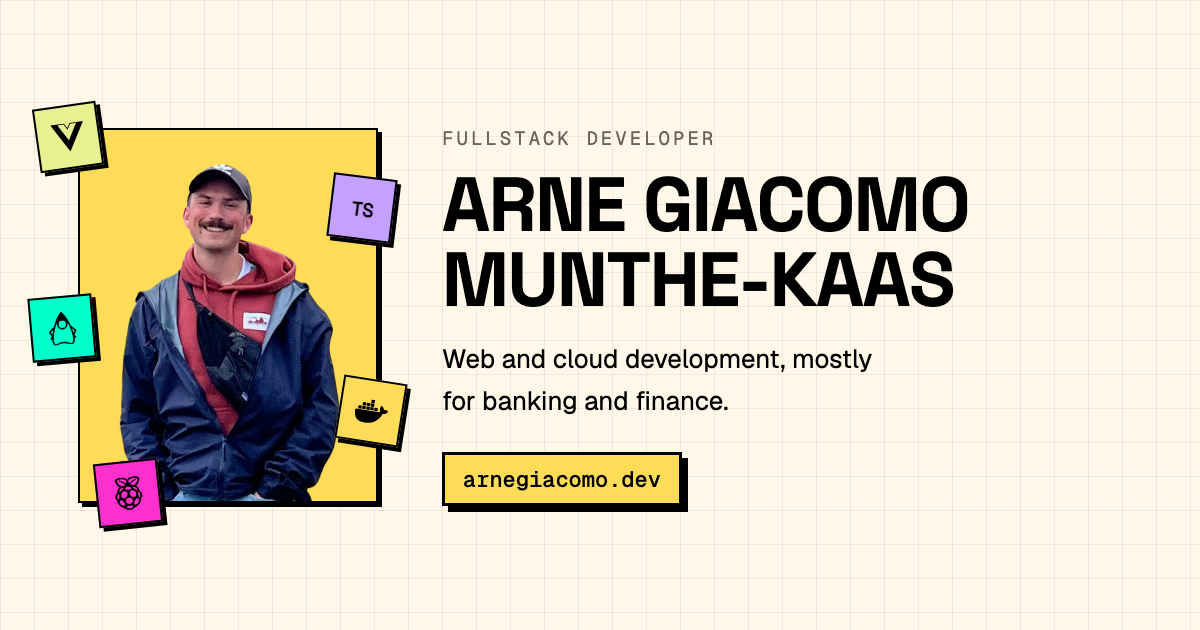
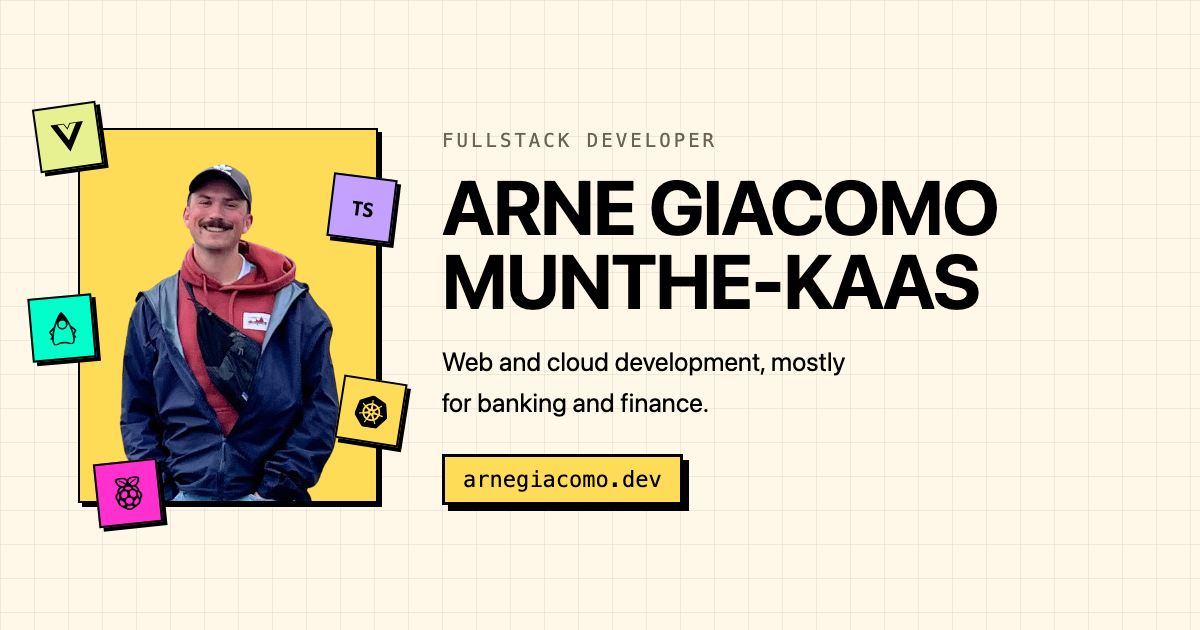
feat: swap Docker chip for Kubernetes
Docker says little on its own and is implied by Kubernetes, which is the
stronger signal. Regenerates both Open Graph cards, since the chips are
baked into the image.

diff --git a/index.html b/index.html
@@ -54,7 +54,7 @@
 <svg class="sprite" aria-hidden="true"><defs>
   <symbol id="i-vue" viewBox="0 0 24 24"><path d="M24,1.61H14.06L12,5.16,9.94,1.61H0L12,22.39ZM12,14.08,5.16,2.23H9.59L12,6.41l2.41-4.18h4.43Z"/></symbol>
   <symbol id="i-ts" viewBox="0 0 24 24"><text x="12" y="17.6" text-anchor="middle" font-family="Geist Mono, ui-monospace, monospace" font-size="14" font-weight="700" letter-spacing="-0.5">TS</text></symbol>
-  <symbol id="i-docker" viewBox="0 0 24 24"><path d="M13.983 11.078h2.119a.186.186 0 00.186-.185V9.006a.186.186 0 00-.186-.186h-2.119a.185.185 0 00-.185.185v1.888c0 .102.083.185.185.185m-2.954-5.43h2.118a.186.186 0 00.186-.186V3.574a.186.186 0 00-.186-.185h-2.118a.185.185 0 00-.185.185v1.888c0 .102.082.185.185.185m0 2.716h2.118a.187.187 0 00.186-.186V6.29a.186.186 0 00-.186-.185h-2.118a.185.185 0 00-.185.185v1.887c0 .102.082.185.185.186m-2.93 0h2.12a.186.186 0 00.184-.186V6.29a.185.185 0 00-.185-.185H8.1a.185.185 0 00-.185.185v1.887c0 .102.083.185.185.186m-2.964 0h2.119a.186.186 0 00.185-.186V6.29a.185.185 0 00-.185-.185H5.136a.186.186 0 00-.186.185v1.887c0 .102.084.185.186.186m5.893 2.715h2.118a.186.186 0 00.186-.185V9.006a.186.186 0 00-.186-.186h-2.118a.185.185 0 00-.185.185v1.888c0 .102.082.185.185.185m-2.93 0h2.12a.185.185 0 00.184-.185V9.006a.185.185 0 00-.184-.186h-2.12a.185.185 0 00-.184.185v1.888c0 .102.083.185.185.185m-2.964 0h2.119a.185.185 0 00.185-.185V9.006a.185.185 0 00-.184-.186h-2.12a.186.186 0 00-.186.186v1.887c0 .102.084.185.186.185m-2.92 0h2.12a.185.185 0 00.184-.185V9.006a.185.185 0 00-.184-.186h-2.12a.185.185 0 00-.184.185v1.888c0 .102.082.185.185.185M23.763 9.89c-.065-.051-.672-.51-1.954-.51-.338.001-.676.03-1.01.087-.248-1.7-1.653-2.53-1.716-2.566l-.344-.199-.226.327c-.284.438-.49.922-.612 1.43-.23.97-.09 1.882.403 2.661-.595.332-1.55.413-1.744.42H.751a.751.751 0 00-.75.748 11.376 11.376 0 00.692 4.062c.545 1.428 1.355 2.48 2.41 3.124 1.18.723 3.1 1.137 5.275 1.137.983.003 1.963-.086 2.93-.266a12.248 12.248 0 003.823-1.389c.98-.567 1.86-1.288 2.61-2.136 1.252-1.418 1.998-2.997 2.553-4.4h.221c1.372 0 2.215-.549 2.68-1.009.309-.293.55-.65.707-1.046l.098-.288Z"/></symbol>
+  <symbol id="i-k8s" viewBox="0 0 24 24"><path d="M10.204 14.35l.007.01-.999 2.413a5.171 5.171 0 0 1-2.075-2.597l2.578-.437.004.005a.44.44 0 0 1 .484.606zm-.833-2.129a.44.44 0 0 0 .173-.756l.002-.011L7.585 9.7a5.143 5.143 0 0 0-.73 3.255l2.514-.725.002-.009zm1.145-1.98a.44.44 0 0 0 .699-.337l.01-.005.15-2.62a5.144 5.144 0 0 0-3.01 1.442l2.147 1.523.004-.002zm.76 2.75l.723.349.722-.347.18-.78-.5-.623h-.804l-.5.623.179.779zm1.5-3.095a.44.44 0 0 0 .7.336l.008.003 2.134-1.513a5.188 5.188 0 0 0-2.992-1.442l.148 2.615.002.001zm10.876 5.97l-5.773 7.181a1.6 1.6 0 0 1-1.248.594l-9.261.003a1.6 1.6 0 0 1-1.247-.596l-5.776-7.18a1.583 1.583 0 0 1-.307-1.34L2.1 5.573c.108-.47.425-.864.863-1.073L11.305.513a1.606 1.606 0 0 1 1.385 0l8.345 3.985c.438.209.755.604.863 1.073l2.062 8.955c.108.47-.005.963-.308 1.34zm-3.289-2.057c-.042-.01-.103-.026-.145-.034-.174-.033-.315-.025-.479-.038-.35-.037-.638-.067-.895-.148-.105-.04-.18-.165-.216-.216l-.201-.059a6.45 6.45 0 0 0-.105-2.332 6.465 6.465 0 0 0-.936-2.163c.052-.047.15-.133.177-.159.008-.09.001-.183.094-.282.197-.185.444-.338.743-.522.142-.084.273-.137.415-.242.032-.024.076-.062.11-.089.24-.191.295-.52.123-.736-.172-.216-.506-.236-.745-.045-.034.027-.08.062-.111.088-.134.116-.217.23-.33.35-.246.25-.45.458-.673.609-.097.056-.239.037-.303.033l-.19.135a6.545 6.545 0 0 0-4.146-2.003l-.012-.223c-.065-.062-.143-.115-.163-.25-.022-.268.015-.557.057-.905.023-.163.061-.298.068-.475.001-.04-.001-.099-.001-.142 0-.306-.224-.555-.5-.555-.275 0-.499.249-.499.555l.001.014c0 .041-.002.092 0 .128.006.177.044.312.067.475.042.348.078.637.056.906a.545.545 0 0 1-.162.258l-.012.211a6.424 6.424 0 0 0-4.166 2.003 8.373 8.373 0 0 1-.18-.128c-.09.012-.18.04-.297-.029-.223-.15-.427-.358-.673-.608-.113-.12-.195-.234-.329-.349-.03-.026-.077-.062-.111-.088a.594.594 0 0 0-.348-.132.481.481 0 0 0-.398.176c-.172.216-.117.546.123.737l.007.005.104.083c.142.105.272.159.414.242.299.185.546.338.743.522.076.082.09.226.1.288l.16.143a6.462 6.462 0 0 0-1.02 4.506l-.208.06c-.055.072-.133.184-.215.217-.257.081-.546.11-.895.147-.164.014-.305.006-.48.039-.037.007-.09.02-.133.03l-.004.002-.007.002c-.295.071-.484.342-.423.608.061.267.349.429.645.365l.007-.001.01-.003.129-.029c.17-.046.294-.113.448-.172.33-.118.604-.217.87-.256.112-.009.23.069.288.101l.217-.037a6.5 6.5 0 0 0 2.88 3.596l-.09.218c.033.084.069.199.044.282-.097.252-.263.517-.452.813-.091.136-.185.242-.268.399-.02.037-.045.095-.064.134-.128.275-.034.591.213.71.248.12.556-.007.69-.282v-.002c.02-.039.046-.09.062-.127.07-.162.094-.301.144-.458.132-.332.205-.68.387-.897.05-.06.13-.082.215-.105l.113-.205a6.453 6.453 0 0 0 4.609.012l.106.192c.086.028.18.042.256.155.136.232.229.507.342.84.05.156.074.295.145.457.016.037.043.09.062.129.133.276.442.402.69.282.247-.118.341-.435.213-.71-.02-.039-.045-.096-.065-.134-.083-.156-.177-.261-.268-.398-.19-.296-.346-.541-.443-.793-.04-.13.007-.21.038-.294-.018-.022-.059-.144-.083-.202a6.499 6.499 0 0 0 2.88-3.622c.064.01.176.03.213.038.075-.05.144-.114.28-.104.266.039.54.138.87.256.154.06.277.128.448.173.036.01.088.019.13.028l.009.003.007.001c.297.064.584-.098.645-.365.06-.266-.128-.537-.423-.608zM16.4 9.701l-1.95 1.746v.005a.44.44 0 0 0 .173.757l.003.01 2.526.728a5.199 5.199 0 0 0-.108-1.674A5.208 5.208 0 0 0 16.4 9.7zm-4.013 5.325a.437.437 0 0 0-.404-.232.44.44 0 0 0-.372.233h-.002l-1.268 2.292a5.164 5.164 0 0 0 3.326.003l-1.27-2.296h-.01zm1.888-1.293a.44.44 0 0 0-.27.036.44.44 0 0 0-.214.572l-.003.004 1.01 2.438a5.15 5.15 0 0 0 2.081-2.615l-2.6-.44-.004.005z"/></symbol>
   <symbol id="i-java" viewBox="0 0 24 24"><path d="M11.915 0 11.7.215C9.515 2.4 7.47 6.39 6.046 10.483c-1.064 1.024-3.633 2.81-3.711 3.551-.093.87 1.746 2.611 1.55 3.235-.198.625-1.304 1.408-1.014 1.939.1.188.823.011 1.277-.491a13.389 13.389 0 0 0-.017 2.14c.076.906.27 1.668.643 2.232.372.563.956.911 1.667.911.397 0 .727-.114 1.024-.264.298-.149.571-.33.91-.5.68-.34 1.634-.666 3.53-.604 1.903.062 2.872.39 3.559.704.687.314 1.15.664 1.925.664.767 0 1.395-.336 1.807-.9.412-.563.631-1.33.72-2.24.06-.623.055-1.32 0-2.066.454.45 1.117.604 1.213.424.29-.53-.816-1.314-1.013-1.937-.198-.624 1.642-2.366 1.549-3.236-.08-.748-2.707-2.568-3.748-3.586C16.428 6.374 14.308 2.394 12.13.215zm.175 6.038a2.95 2.95 0 0 1 2.943 2.942 2.95 2.95 0 0 1-2.943 2.943A2.95 2.95 0 0 1 9.148 8.98a2.95 2.95 0 0 1 2.942-2.942zM8.685 7.983a3.515 3.515 0 0 0-.145.997c0 1.951 1.6 3.55 3.55 3.55 1.95 0 3.55-1.598 3.55-3.55 0-.329-.046-.648-.132-.951.334.095.64.208.915.336a42.699 42.699 0 0 1 2.042 5.829c.678 2.545 1.01 4.92.846 6.607-.082.844-.29 1.51-.606 1.94-.315.431-.713.651-1.315.651-.593 0-.932-.27-1.673-.61-.741-.338-1.825-.694-3.792-.758-1.974-.064-3.073.293-3.821.669-.375.188-.659.373-.911.5s-.466.2-.752.2c-.53 0-.876-.209-1.16-.64-.285-.43-.474-1.101-.545-1.948-.141-1.693.176-4.069.823-6.614a43.155 43.155 0 0 1 1.934-5.783c.348-.167.749-.31 1.192-.425zm-3.382 4.362a.216.216 0 0 1 .13.031c-.166.56-.323 1.116-.463 1.665a33.849 33.849 0 0 0-.547 2.555 3.9 3.9 0 0 0-.2-.39c-.58-1.012-.914-1.642-1.16-2.08.315-.24 1.679-1.755 2.24-1.781zm13.394.01c.562.027 1.926 1.543 2.24 1.783-.246.438-.58 1.068-1.16 2.08a4.428 4.428 0 0 0-.163.309 32.354 32.354 0 0 0-.562-2.49 40.579 40.579 0 0 0-.482-1.652.216.216 0 0 1 .127-.03z"/></symbol>
   <symbol id="i-rpi" viewBox="0 0 24 24"><path d="m19.8955 10.8961-.1726-.3028c.0068-2.1746-1.0022-3.061-2.1788-3.7348.356-.0938.7237-.1711.8245-.6182.6118-.1566.7397-.4398.8011-.7398.16-.1066.6955-.4061.6394-.9211.2998-.2069.4669-.4725.3819-.8487.3222-.3515.407-.6419.2702-.9096.3868-.4805.2152-.7295.05-.9817.2897-.5254.0341-1.0887-.7758-.9944-.3221-.4733-1.0244-.3659-1.133-.3637-.1215-.1519-.2819-.2821-.7755-.219-.3197-.2851-.6771-.2364-1.0458-.0964-.4378-.3403-.7275-.0675-1.0584.0356-.53-.1706-.6513.0631-.9117.1583-.5781-.1203-.7538.1416-1.0309.4182l-.3224-.0063c-.8719.5061-1.305 1.5366-1.4585 2.0664-.1536-.5299-.5858-1.5604-1.4575-2.0664l-.3223.0063C9.942.5014 9.7663.2394 9.1883.3597 8.9279.2646 8.807.0309 8.2766.2015c-.2172-.0677-.417-.2084-.6522-.2012l.0004.0002C7.5017.0041 7.369.049 7.2185.166c-.3688-.1401-.7262-.1887-1.0459.0964-.4936-.0631-.654.0671-.7756.219C5.2887.4791 4.5862.3717 4.264.845c-.8096-.0943-1.0655.4691-.7756.9944-.1653.2521-.3366.5013.05.9819-.1367.2677-.0519.5581.2703.9096-.085.3763.0822.6418.3819.8487-.0561.515.4795.8144.6394.9211.0614.3001.1894.5832.8011.7398.1008.4472.4685.5244.8245.6183-1.1766.6737-2.1856 1.56-2.1788 3.7348l-.1724.3028c-1.3491.8082-2.5629 3.4056-.6648 5.5167.124.6609.3319 1.1355.5171 1.6609.2769 2.117 2.0841 3.1082 2.5608 3.2255.6984.524 1.4423 1.0212 2.449 1.3696.949.964 1.977 1.3314 3.0107 1.3308.0152 0 .0306.0002.0457 0 1.0337.0006 2.0618-.3668 3.0107-1.3308 1.0067-.3483 1.7506-.8456 2.4491-1.3696.4766-.1173 2.2838-1.1085 2.5607-3.2255.1851-.5253.3931-1 .517-1.6609 1.8981-2.1113.6843-4.7089-.6649-5.517zm-1.0386-.3715c-.0704.8759-4.6354-3.0504-3.8472-3.1808 2.1391-.3558 3.9191.896 3.8472 3.1808zm-2.0155 4.3649c-1.1481.7409-2.8025.2626-3.6953-1.0681-.8928-1.3306-.6858-3.0101.4623-3.7509 1.1481-.7409 2.8025-.2627 3.6953 1.068.8927 1.3307.6858 3.0101-.4623 3.751zM13.6591 1.3721c.0396.1967.0843.321.1354.3577.2537-.272.4611-.5506.7878-.8123.0011.1537-.0776.3205.1169.4425.1752-.2356.4119-.4459.7263-.6244-.1514.2611-.026.3404.0554.4486.24-.2059.4681-.4144.9109-.5759-.121.1474-.2902.2914-.1108.4607.2473-.1544.496-.3086 1.0833-.4183-.1323.1475-.4059.295-.2401.4426.3104-.1186.6539-.2047 1.034-.2546-.182.1496-.3337.2963-.1846.4122.3323-.1022.7899-.2398 1.2372-.1212l-.2832.2849c-.0314.0382.6623.0297 1.1202.0364-.167.2321-.3375.4562-.437.8548.0454.0459.2723.0204.4862 0-.2194.4618-.6004.5783-.6893.776.134.1015.32.075.5232.006-.158.3254-.4892.5484-.7509.8123.0662.047.1818.075.4555.0425-.2418.257-.5339.492-.8802.7032.0614.0708.2722.0681.4678.0727-.3136.3069-.7173.466-1.0955.6668.1885.1288.3234.0988.4678.097-.2676.2198-.7225.3342-1.1448.4668.0803.1249.1607.1589.3324.194-.447.2473-1.0873.1343-1.2679.2607.0435.1243.1665.2053.3139.2728-.7197.0418-2.6879-.0262-3.0652-1.5156.7367-.8094 2.0813-1.7593 4.394-2.934-1.7994.6022-3.4229 1.405-4.7817 2.5096-1.5978-.7436-.4965-2.6197.283-3.3645zm-1.6126 5.3718c1.1329-.0123 2.5356.8325 2.53 1.6286-.005.7027-.9851 1.2715-2.5213 1.2607-1.5043-.0177-2.5172-.7148-2.5137-1.3957.003-.5603 1.2282-1.5263 2.505-1.4936zm-5.7646-.6006c.1717-.0351.252-.0692.3323-.194-.4223-.1327-.8772-.247-1.1448-.4668.1444.0018.2792.0318.4678-.097-.3783-.2008-.782-.3599-1.0956-.6668.1955-.0048.4064-.002.4677-.0728-.3462-.2113-.6383-.4463-.8801-.7033.2738.0325.3893.0045.4555-.0425-.2617-.264-.593-.487-.7509-.8123.2032.069.3892.0954.5232-.006-.089-.1977-.47-.3142-.6894-.776.214.0204.4409.0459.4863 0-.0994-.3985-.2698-.6226-.4369-.8547.4579-.0067 1.1516.0018 1.1202-.0364l-.2831-.2849c.4472-.1186.9049.019 1.2371.1213.1492-.1159-.0026-.2626-.1847-.4123.3801.05.7236.1361 1.034.2547.1659-.1476-.1076-.2951-.24-.4426.5872.1097.8361.2639 1.0833.4183.1794-.1694.0103-.3133-.1108-.4607.4428.1615.6709.37.911.5759.0814-.1082.2068-.1875.0554-.4486.3143.1785.5511.3888.7263.6244.1945-.122.1159-.2888.1169-.4426.3267.2618.534.5404.7879.8124.0511-.0366.0959-.161.1354-.3577.7794.7448 1.8807 2.6208.2831 3.3646-1.3589-1.1039-2.9817-1.9064-4.78-2.5086 2.3115 1.174 3.6556 2.1239 4.392 2.9328-.3773 1.4895-2.3455 1.5575-3.0651 1.5157.1473-.0676.2703-.1485.3139-.2728-.1806-.1264-.8209-.0134-1.2679-.2607zm2.8175 1.1334c.7881.1304-3.7769 4.0567-3.8472 3.1809-.0719-2.2846 1.7079-3.5367 3.8472-3.1809zm-4.847 8.7567c-1.1094-.8789-1.4668-3.4529.5901-4.6097 1.2394-.3273.4184 5.051-.5901 4.6097zm4.2656 4.5989c-.6257.3719-2.1452.2187-3.2252-1.3095-.7283-1.2823-.6345-2.5872-.123-2.9705.7648-.4589 1.9464.1609 2.8559 1.2003.7923.9405 1.1536 2.5927.4923 3.0797zm-1.2415-5.6086c-1.1481-.7409-1.3551-2.4203-.4623-3.7511.8928-1.3307 2.5472-1.8089 3.6952-1.068 1.1481.7409 1.3551 2.4203.4623 3.7509-.8926 1.3308-2.5471 1.809-3.6952 1.0682zm4.7948 8.2279c-1.3763.0584-2.7258-1.1105-2.7081-1.5157-.0206-.594 1.6758-1.0578 2.782-1.0306 1.1131-.0479 2.6068.3531 2.6097.8851.0184.5166-1.3547 1.6838-2.6836 1.6612zm2.7584-5.8578c.0081 1.3899-1.226 2.5225-2.7562 2.5299-1.5302.0073-2.7773-1.1135-2.7854-2.5033v-.0265c-.008-1.3899 1.2259-2.5226 2.7562-2.5299 1.5302-.0073 2.7773 1.1134 2.7853 2.5033a.7794.7794 0 0 1 .0001.0265zm3.855 2.0029c-1.186 1.6208-2.7916 1.684-3.3896 1.2325-.6255-.5811-.148-2.3854.7094-3.3747v-.0003c.9812-1.0912 2.0302-1.8037 2.7609-1.2469.4919.4828.7805 2.3008-.0807 3.3894zm1.0724-3.4301c-1.0086.4413-1.8298-4.9372-.5901-4.61 2.0568 1.1569 1.6994 3.731.5901 4.61z"/></symbol>
 </defs></svg>
@@ -78,7 +78,7 @@
       <span class="chip block c-lime   p1" role="img" aria-label="Vue"><svg><use href="#i-vue"/></svg></span>
       <span class="chip block c-violet p2" role="img" aria-label="TypeScript"><svg><use href="#i-ts"/></svg></span>
       <span class="chip block c-teal   p3" role="img" aria-label="Java"><svg><use href="#i-java"/></svg></span>
-      <span class="chip block c-primary p4" role="img" aria-label="Docker"><svg><use href="#i-docker"/></svg></span>
+      <span class="chip block c-primary p4" role="img" aria-label="Kubernetes"><svg><use href="#i-k8s"/></svg></span>
       <span class="chip block c-pink   p5" role="img" aria-label="Raspberry Pi"><svg><use href="#i-rpi"/></svg></span>
     </div>
     <div class="hero-text">
